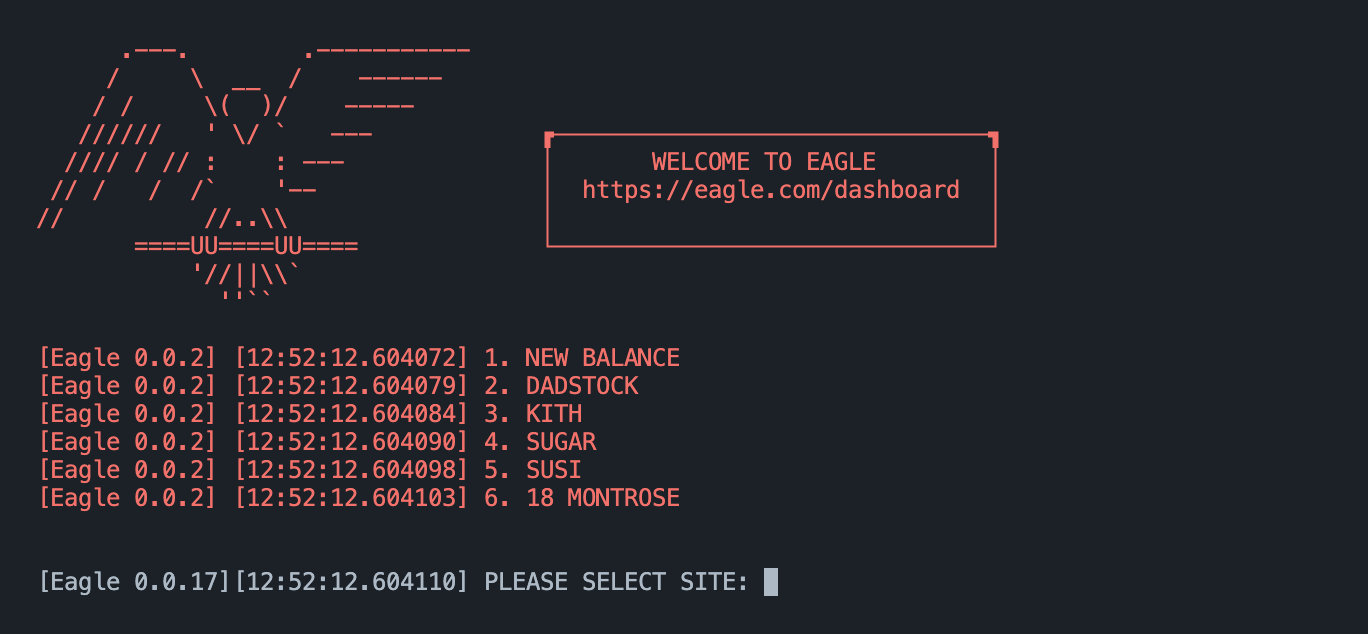
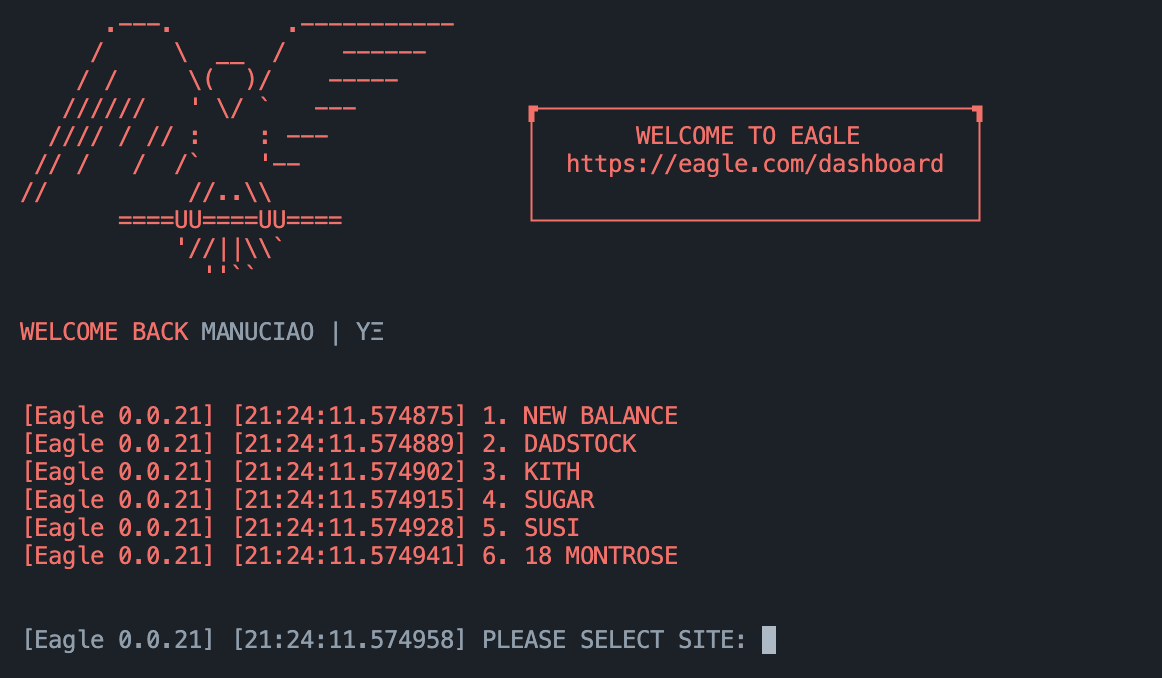
VERSION VAR

diff --git a/handler/utils/default.go b/handler/utils/default.go
@@ -9,6 +9,7 @@ import (
 	"time"
 
 	"github.com/denisbrodbeck/machineid"
+	"github.com/eagle/handler/version"
 	"github.com/fatih/color"
 )
 
@@ -42,13 +43,31 @@ func Banner() {
 	color.Red(string(content))
 }
 
+//save version in struct or in a variable
+
+func GetVersionName() {
+	file, err := os.Open("bin/")
+	if err != nil {
+		log.Fatalf("failed opening directory: %s", err)
+	}
+	defer file.Close()
+	list, _ := file.Readdirnames(0)
+
+	for _, name := range list {
+		if strings.Contains(name, ".exe") {
+			version_ := strings.Split(name, "_")[1]
+			version.Version = version_[:len(version_)-4]
+		}
+	}
+}
+
 func Site_list() {
-	color.Red("[Eagle 0.0.2] " + "[" + time.Now().Format("15:04:05.000000") + "]" + " 1. NEW BALANCE")
-	color.Red("[Eagle 0.0.2] " + "[" + time.Now().Format("15:04:05.000000") + "]" + " 2. DADSTOCK")
-	color.Red("[Eagle 0.0.2] " + "[" + time.Now().Format("15:04:05.000000") + "]" + " 3. KITH")
-	color.Red("[Eagle 0.0.2] " + "[" + time.Now().Format("15:04:05.000000") + "]" + " 4. SUGAR")
-	color.Red("[Eagle 0.0.2] " + "[" + time.Now().Format("15:04:05.000000") + "]" + " 5. SUSI")
-	color.Red("[Eagle 0.0.2] " + "[" + time.Now().Format("15:04:05.000000") + "]" + " 6. 18 MONTROSE")
+	color.Red("[Eagle " + version.Version + "] " + "[" + time.Now().Format("15:04:05.000000") + "]" + " 1. NEW BALANCE")
+	color.Red("[Eagle " + version.Version + "] " + "[" + time.Now().Format("15:04:05.000000") + "]" + " 2. DADSTOCK")
+	color.Red("[Eagle " + version.Version + "] " + "[" + time.Now().Format("15:04:05.000000") + "]" + " 3. KITH")
+	color.Red("[Eagle " + version.Version + "] " + "[" + time.Now().Format("15:04:05.000000") + "]" + " 4. SUGAR")
+	color.Red("[Eagle " + version.Version + "] " + "[" + time.Now().Format("15:04:05.000000") + "]" + " 5. SUSI")
+	color.Red("[Eagle " + version.Version + "] " + "[" + time.Now().Format("15:04:05.000000") + "]" + " 6. 18 MONTROSE")
 
 	println("\n")
 }

diff --git a/main.go b/main.go
@@ -7,12 +7,14 @@ import (
 
 	"github.com/eagle/handler/auth"
 	"github.com/eagle/handler/loading"
+	"github.com/eagle/handler/exe"
 	"github.com/eagle/handler/sites/deadstock"
 	"github.com/eagle/handler/utils"
 	"github.com/eagle/handler/version"
 	"github.com/fatih/color"
 	"github.com/joho/godotenv"
 )
+
 
 func init() {
 	err := godotenv.Load("config/.env")
@@ -22,21 +24,8 @@ func init() {
 	}
 }
 
-func main() {
-	loading.Initialize()
-	auth.Initialize()
-	version.Updates()
-
-	// rich_presence.Initialize()
-	//launch EageBot.exe from bin reposotory
-
-	utils.Banner()
-	username := strings.ToUpper(auth.Auth.Integrations.Discord.Username)
-	color.Red("WELCOME BACK " + color.WhiteString(username))
-	println("\n")
-	utils.Site_list()
-	// utils.Menu()
-	mode := utils.SelectMode(color.HiWhiteString("[Eagle " + version.Version + "]" + "[" + time.Now().Format("15:04:05.000000") + "]" + " PLEASE SELECT SITE:"))
+func Menu() {
+	mode := utils.SelectMode(color.WhiteString("[Eagle " + version.Version + "]" + " [" + time.Now().Format("15:04:05.000000") + "]" + " PLEASE SELECT SITE:"))
 	if mode == "1" {
 		print("GAMESTOP")
 	} else if mode == "2" {
@@ -46,4 +35,21 @@ func main() {
 	} else {
 		utils.ConsolePrint("INVALID OPTION!", "red")
 	}
+}
+
+
+
+func main() {
+	loading.Initialize()
+	auth.Initialize()
+	version.Updates()
+	utils.GetVersionName()
+	// rich_presence.Initialize()
+	exe.Execute()
+	utils.Banner()
+	username := strings.ToUpper(auth.Auth.Integrations.Discord.Username)
+	color.Red("WELCOME BACK " + color.WhiteString(username))
+	println("\n")
+	utils.Site_list()
+	Menu()
 }

diff --git a/handler/version/version.go b/handler/version/version.go
@@ -13,7 +13,7 @@ import (
 )
 
 var (
-	Version = "0.0.17"
+	Version string
 	File    Update
 )
 
@@ -47,6 +47,7 @@ func CheckSum() string {
 	for _, name := range list {
 		if strings.Contains(name, ".exe") {
 			version := strings.Split(name, "_")[1]
+			//save version in struct
 			return version[:len(version)-4]
 		}
 	}
@@ -75,7 +76,7 @@ func GetLatestVersion() string {
 			return v.Version
 		}
 	}
-	return Version
+	return ""
 }
 
 func GetID() string {
@@ -134,10 +135,11 @@ func Updates() {
 			os.Exit(255)
 		}
 		color.Yellow("[" + time.Now().Format("15:04:05.000000") + "] " + "UPDATE DOWNLOADED")
-		if CheckSum() != "" {
-			os.Remove("bin/EagleBot_" + CheckSum() + ".exe")
-		}
 		time.Sleep(2 * time.Second)
 		os.Exit(255)
+	} else {
+		color.Green("[" + time.Now().Format("15:04:05.000000") + "] " + "NO UPDATES")
+		Version = version
 	}
+
 }

diff --git a/handler/loading/types.go b/handler/loading/types.go
@@ -2,11 +2,17 @@ package loading
 
 import (
 	"github.com/eagle/handler/settings"
+	// "github.com/eagle/handler/version"
 )
 
 type Settings struct {
 	Settings settings.Settings `json:"settings"`
 }
+
+// type Version struct {
+// 	Version version.Info `json:"version"`
+// }
+
 
 type Config struct {
 	// Accounts        Accounts
@@ -14,5 +20,6 @@ type Config struct {
 	// Tasks           Tasks
 	// Profiles        Profiles
 	// QuicktaskGroups map[int][]QuicktaskGroup
+	// Version  Version  `json:"version"`
 	Settings Settings `json:"settings"`
 }

diff --git a/handler/loading/loading.go b/handler/loading/loading.go
@@ -17,8 +17,14 @@ func Initialize() {
 func Load() *Config {
 	return &Config{
 		Settings: *loadSettings(),
+		// Version:  *loadVersion(), //starting loading version reading from bin folder
 	}
 }
+
+// func loadVersion() *Version {
+// 	//read in bin folder
+
+// }
 
 func loadSettings() *Settings {
 	jsonFile, err := os.Open("bin/setting.json")

diff --git a/handler/exe/exe.go b/handler/exe/exe.go
@@ -1,0 +1,8 @@
+package exe
+
+// execute EageBot.exe from bin reposotory
+func Execute() {
+	// rich_presence.Initialize()
+	//launch EageBot.exe from bin reposotory
+
+}
